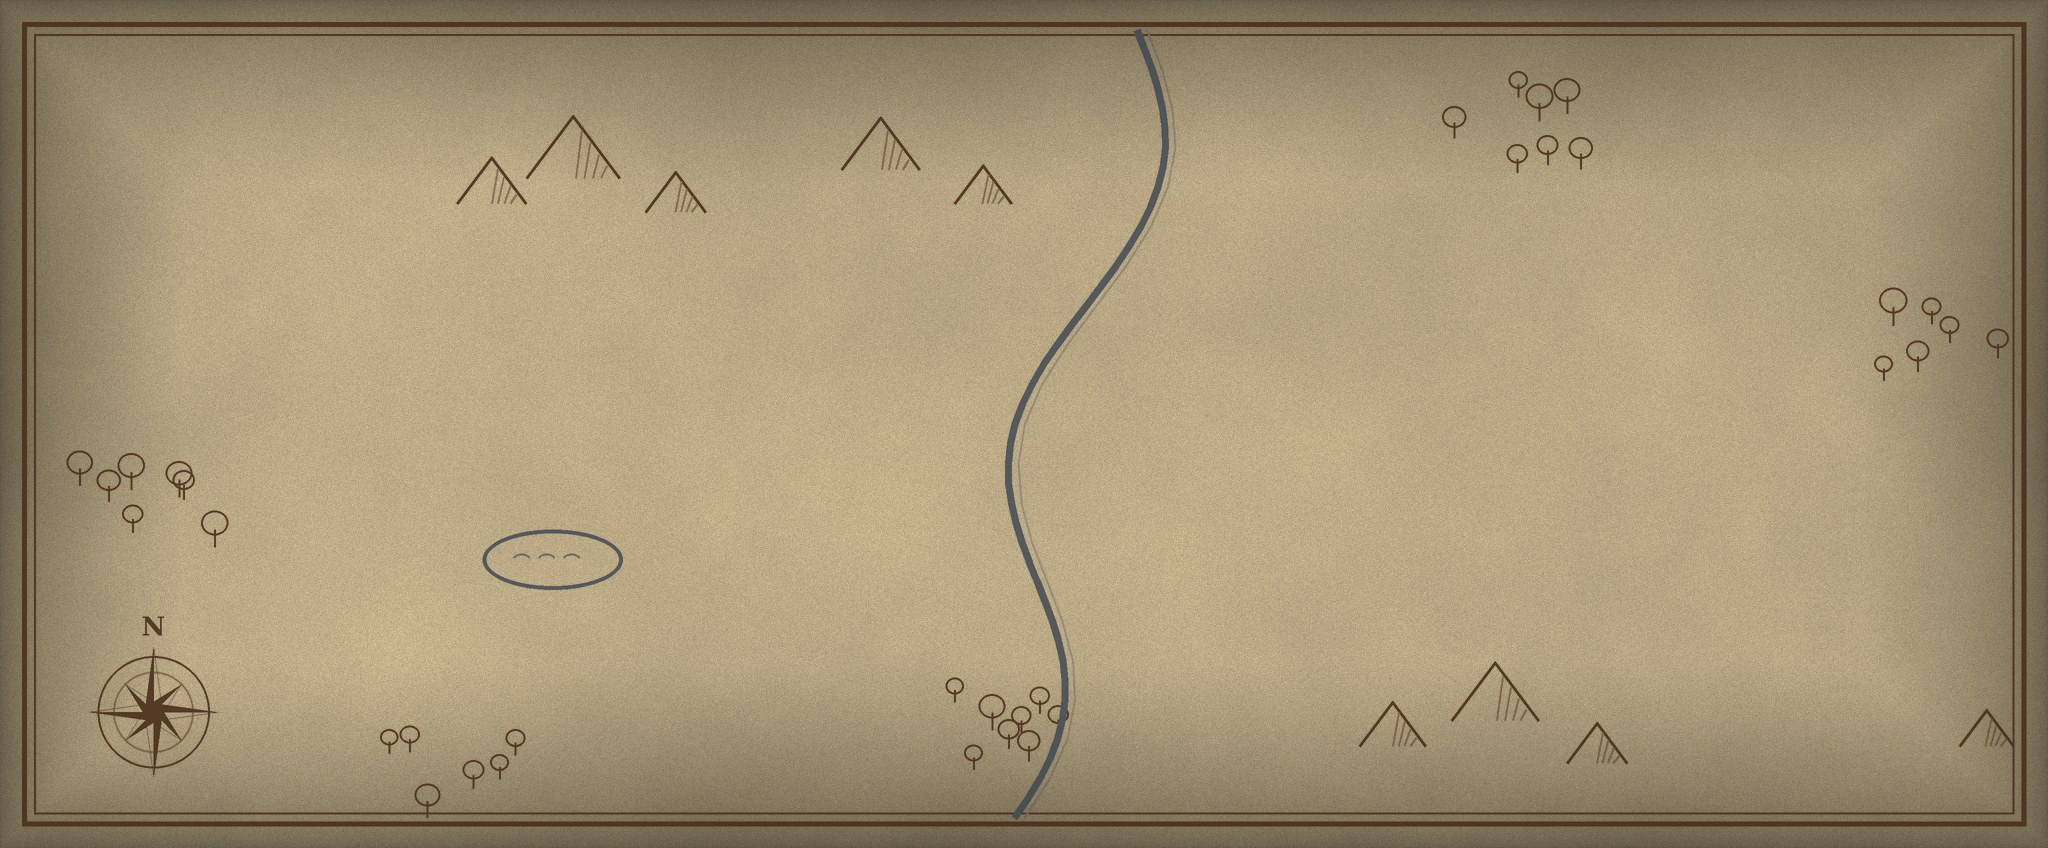
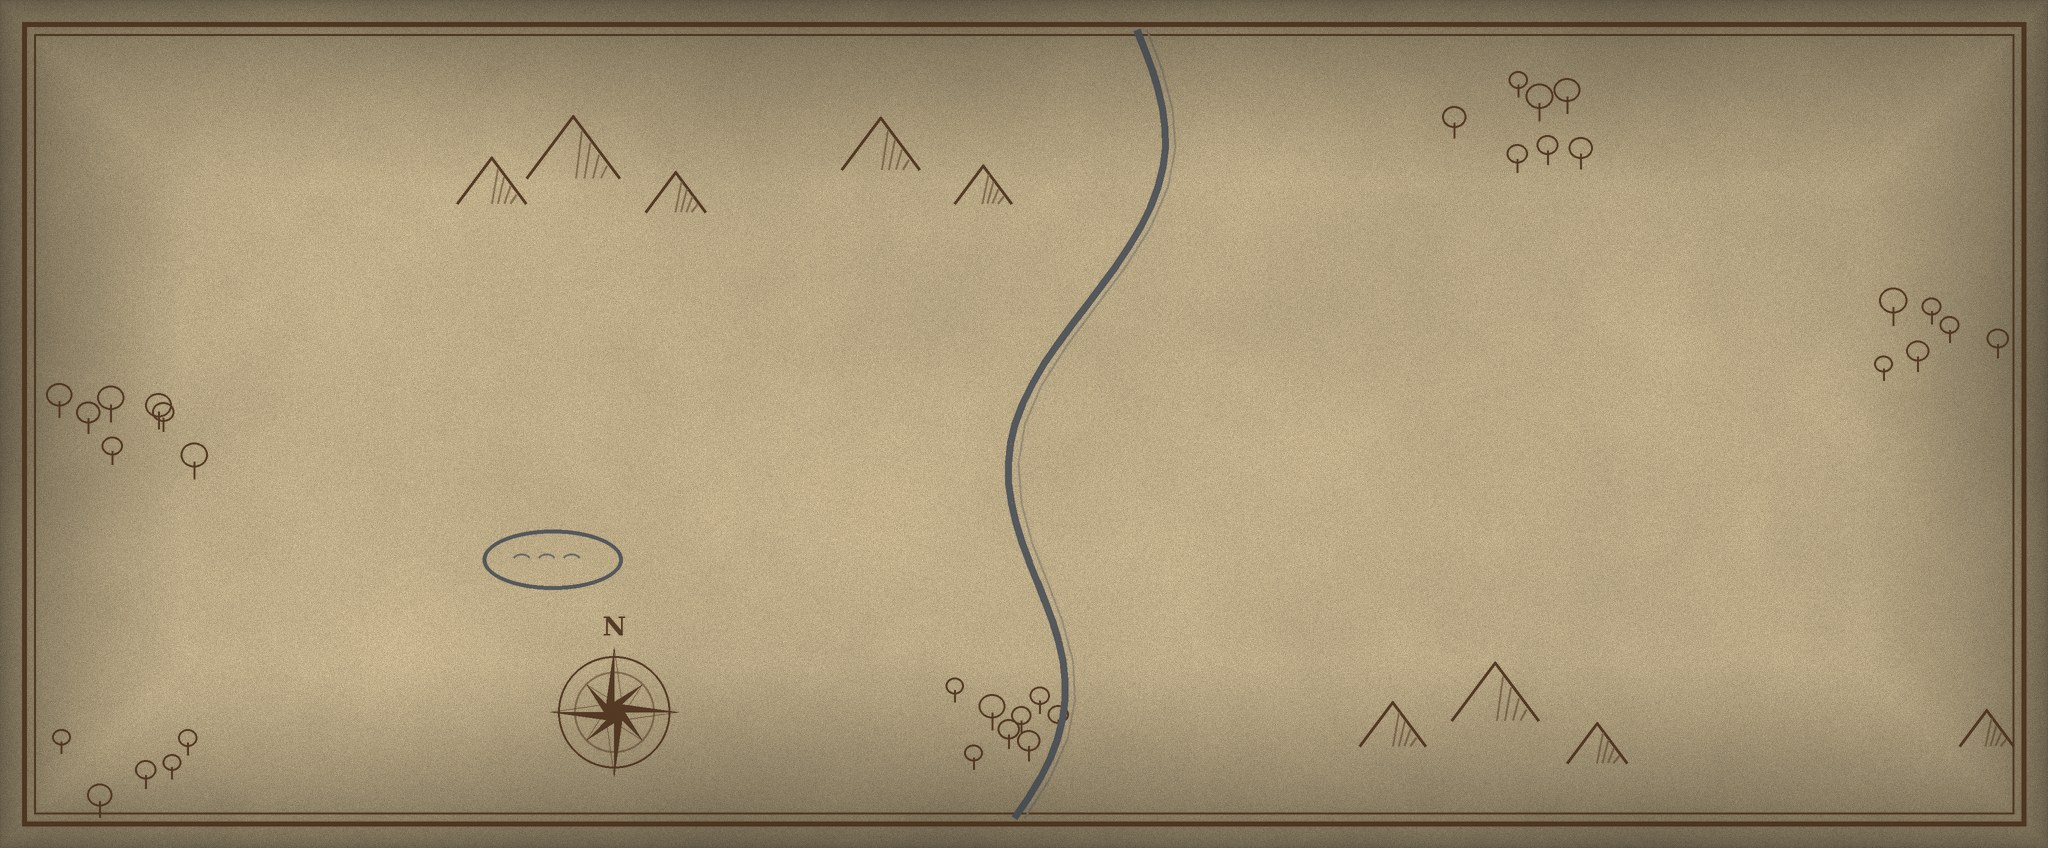
Map: compass out of the way, the table under the map as it tilts in
Claude-Session: https://claude.ai/code/session_01WrGcoRYHE6LeQSZaJD9jW8

diff --git a/tools/make_art.py b/tools/make_art.py
@@ -844,7 +844,7 @@ def campaign_map(out):
         d.line([(x, y), (x, y + r * 1.3)], fill=INK, width=2 * S)
         d.ellipse([x - r, y - r * 1.4, x + r, y + r * 0.4], outline=INK, width=2 * S)
 
-    for cx, cy, n in ((0.07, 0.58, 7), (0.5, 0.86, 8), (0.74, 0.14, 7), (0.95, 0.4, 6), (0.22, 0.9, 6)):
+    for cx, cy, n in ((0.06, 0.5, 7), (0.5, 0.86, 8), (0.74, 0.14, 7), (0.95, 0.4, 6), (0.06, 0.9, 5)):
         for k in range(n):
             tree(cx + rng.uniform(-0.035, 0.035), cy + rng.uniform(-0.05, 0.05), rng.uniform(9, 14))
 
@@ -860,7 +860,7 @@ def campaign_map(out):
     for k in range(3):
         d.arc([lx - 40 * S + k * 25 * S, ly - 6 * S, lx - 22 * S + k * 25 * S, ly + 6 * S], 200, 340, fill=(58, 66, 80, 150), width=2 * S)
 
-    cx, cy = at(0.075, 0.84)
+    cx, cy = at(0.3, 0.84)
     R = 56 * S
     d.ellipse([cx - R, cy - R, cx + R, cy + R], outline=INK, width=2 * S)
     d.ellipse([cx - R * 0.72, cy - R * 0.72, cx + R * 0.72, cy + R * 0.72], outline=FAINT, width=2 * S)

diff --git a/core/src/main/java/ohheck/screens/CampaignScreen.java b/core/src/main/java/ohheck/screens/CampaignScreen.java
@@ -297,6 +297,12 @@ public class CampaignScreen extends BaseScreen {
 					.translate(-cx, -cy, 0));
 		}
 		float tilt = TILT_FROM * (1 - TILT.progress(unfoldFor)), distance = MathUtils.lerp(FAR, NEAR, TILT.progress(unfoldFor));
+		if (!TILT.done(unfoldFor)) {
+			float table = 0.45f * MAP_LIGHT.progress(unfoldFor);
+			batch.setColor(table, table, table, 1);
+			batch.draw(assets.table, 0, 0, w, h);
+			batch.setColor(Color.WHITE);
+		}
 		map.drawMap(tilt, distance, MAP_LIGHT.progress(unfoldFor));
 		if (TILT.done(unfoldFor)) {
 			float seals = SEALS.progress(unfoldFor), pulse = 0.8f + 0.2f * MathUtils.sin(shownFor * 2f);
